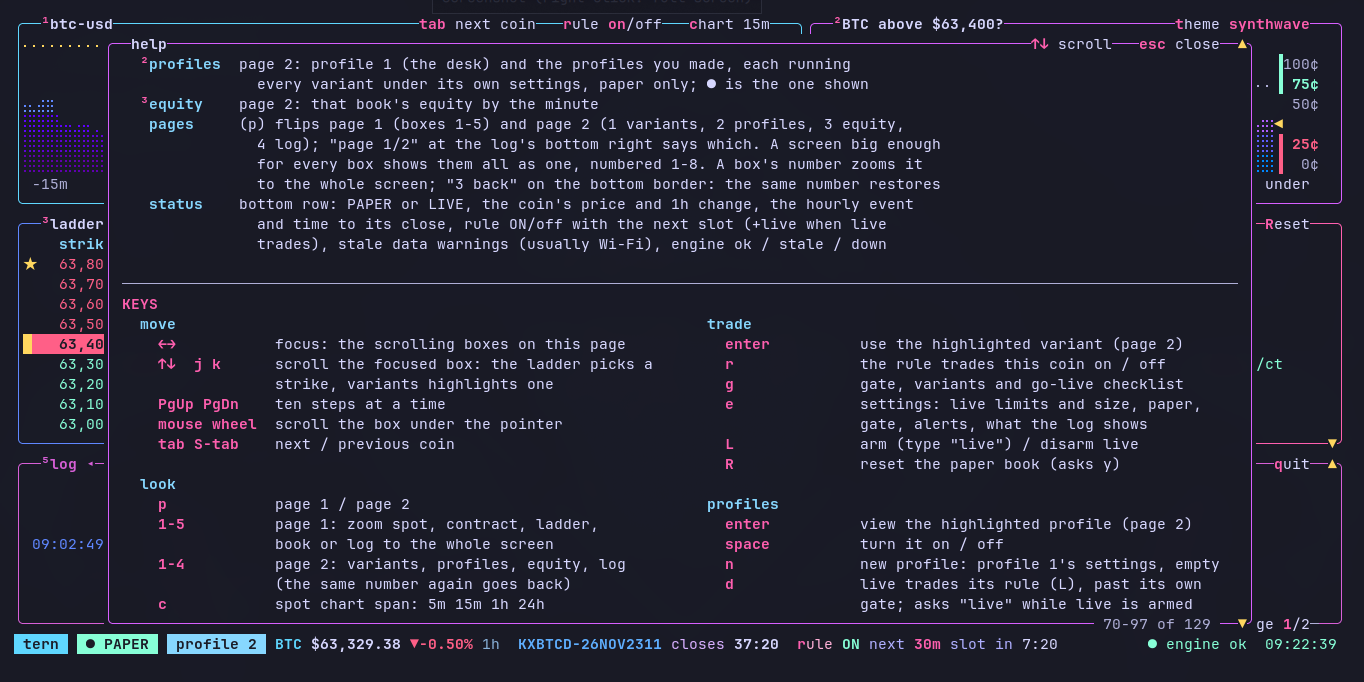
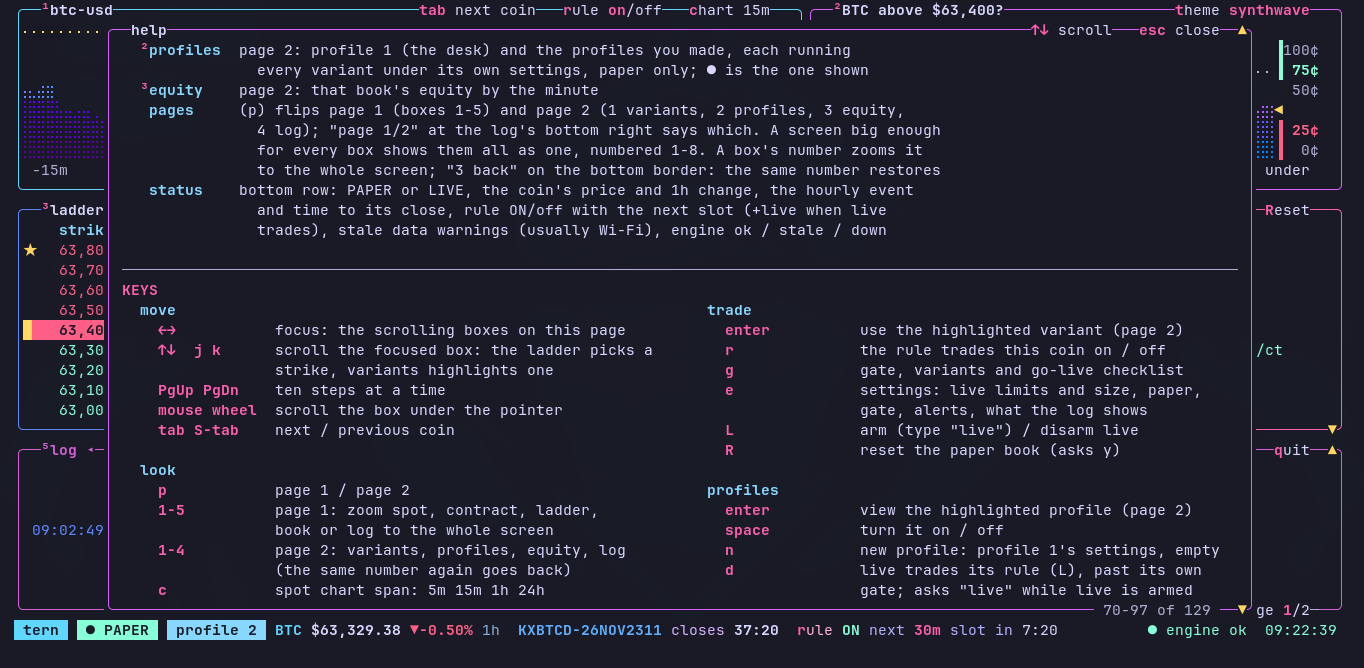
README, help and research: plain wording, current keys, files and gate; screenshots cropped
Drops the commentary on whether the rule has an edge. Brings the README up to
date: report --profiles, chart spans, stop key, theme/settings/profile keys,
the files and modules it left out, the Kalshi key check. Screenshots lose the
tooltip along their top.

diff --git a/tern/dash.py b/tern/dash.py
@@ -291,20 +291,18 @@ HELP = [
                  "hourly close, the rule buys the favorite side of every strike whose mid is {band} (spread "
                  "{spread}c or less) at the ask, {contracts:g} contracts a strike and at most ${hour_cost:,.0f} an hour, "
                  "and holds it to settlement. Over 67 days of BTC history it made +0.6c a contract on data it "
-                 "was not chosen on (t=1.1): positive, small, unproven."),
+                 "was not chosen on."),
     ("VARIANTS", "Each variant runs on paper side by side with its own record and real fees, written down "
                  "before it saw any data:\n"
                  "{variants}\n"
                  "The one marked ● in the variants box (page 2: p) is what the paper book trades, and live too once it "
                  "passes the gate. Highlight another with ↑↓ and press enter to switch; while live is on or armed "
-                 "you type \"live\" to confirm. Open positions ride to settlement. Picking whichever looks best "
-                 "after watching flatters it: the gate is the real check.\n"
+                 "you type \"live\" to confirm. Open positions ride to settlement.\n"
                  "Retired, records kept and listed by (tern report):\n"
                  "{retired}"),
     ("THE GATE", "(g) Live trades the variant in use only after its own paper record has {days:g} days of hours "
                  "traded, {entries} settled entries and P&L of ${pnl:g} or more after fees. Hours with the engine "
-                 "off don't count, and switching variants never skips it: the new one needs its own record. "
-                 "The gate catches a broken rule, not a weak one."),
+                 "off don't count, and switching variants never skips it: the new one needs its own record."),
     ("LIVE", "(L) arms live: it asks you to type \"live\". It needs KALSHI_KEY_ID and KALSHI_KEY_FILE in "
              "~/.config/tern/kalshi.env. The status line turns red (● LIVE) once Kalshi accepts the key. "
              "Caps: ${risk:,.0f} at risk at once and ${order:,.0f} per order; a loss of ${day:,.0f} since local midnight "
@@ -348,7 +346,7 @@ OVERLAY_TOKENS = re.compile(
     r"(?P<ok>\[x\])|(?P<todo>\[ \])"
     r"|(?P<ref>\((?:[a-zA-Z?1-8]|tern \w[\w-]*|enter|tab|esc)\))"
     r"|(?P<quote>\"[^\"]+\"|\blive and press enter\b)"
-    r"|(?P<warn>\b(?:real money|unproven|turns live off|turns itself off|Nothing trades|No key found yet|Wipe)\b)"
+    r"|(?P<warn>\b(?:real money|turns live off|turns itself off|Nothing trades|No key found yet|Wipe)\b)"
     r"|(?P<keyhint>^(?:y|any key|any other key)\b|\besc\b|·\s(?:any (?:other )?key)\b)"
     r"|(?P<path>~/\S+|\bKALSHI_KEY_(?:ID|FILE)\b|\blive\.\w+)")
 SHADOW_LINE = re.compile(r"^(shadow: \S+ settled) · (.+)$")   # the engine's line after an hour settles

diff --git a/tern/__main__.py b/tern/__main__.py
@@ -263,8 +263,8 @@ def _report_profiles(runtime: str, args: list[str]) -> int:
                  Shadow(runtime, cfg.taker_fee))]
         rows += [(p.name + ("" if p.enabled else " (off)"), p.variant, p.log.sv, p.shadow) for p in loaded]
         _side_by_side(rows)
-        print("\neach profile's book is its picked variant's record; picking the best-looking of many flatters it:")
-        print("look at entries and t (by hour, shows after 10 hours; under about 2 it is still noise).")
+        print("\neach profile's book is its picked variant's record:")
+        print("look at entries and t (by hour, shows after 10 hours) as well as P&L.")
         return 0
     if args[0] == "--profile" and len(args) > 1:
         want = " ".join(args[1:]).strip().lower()

diff --git a/tern/shadow.py b/tern/shadow.py
@@ -46,7 +46,7 @@ TABLE = [
      "every coin at once, each its own budget; judge by ¢/ct (from 2026-11-16)"),
     # added 2026-11-19 after the worst day (-$93, five hours lost to sharp late moves). 7.6 bp/min is the
     # 75th percentile of base's entry slots 11-09..11-18, set from that data alone, not from P&L and not from
-    # 11-19. Before 11-19 calm slots made more (+3.1 vs +1.2 ¢/ct), but on 11-19 they lost more: unproven.
+    # 11-19. Before 11-19 calm slots made more (+3.1 vs +1.2 ¢/ct), but on 11-19 they lost more.
     ("calm", (None, None, None, None, None, None, 7.6),
      "skips slots after a wild hour: rv60 over 7.6 bp/min (from 2026-11-20)"),
 ]

diff --git a/tern/config.py b/tern/config.py
@@ -23,7 +23,7 @@ SERIES = {  # Kalshi hourly above/below series -> Coinbase spot product; tab cyc
 @dataclass
 class Strategy:
     """The hourly favorite rule. Defaults are the variant picked on the first half of 67 days of
-    BTC history and checked on the untouched second half (+0.61c/contract, t=1.1: positive, unproven)."""
+    BTC history and checked on the untouched second half (+0.61c/contract, t=1.1)."""
     series: list = field(default_factory=lambda: ["KXBTCD"])   # ETH was not tested on 67 days
     band_lo: float = 0.75                      # favorite's mid must be in [band_lo, band_hi)
     band_hi: float = 0.95

diff --git a/README.md b/README.md
@@ -5,7 +5,7 @@ screen: braille charts, a strike ladder, and paper and live books.
 Every trade comes from the rule; there are no manual orders.
 It paper trades from the start and sends no real order until you arm live.
 
-<img width="1364" height="682" alt="tern: page1 trade" src="docs/screenshots/01-page1-trade.png" />
+<img width="1364" height="668" alt="tern: page1 trade" src="docs/screenshots/01-page1-trade.png" />
 
 Python 3.11+, standard library only. Kalshi request signing (Ed25519 and RSA-PSS)
 is written in pure Python and checked against openssl in the tests.
@@ -15,6 +15,8 @@ python3 -m tern               # the screen; starts the engine in paper if it isn
 python3 -m tern run           # the engine in the foreground
 python3 -m tern status        # plain-text summary
 python3 -m tern report        # the rule's variants side by side
+python3 -m tern report --profiles       # every profile's book side by side (--deleted: the deleted ones)
+python3 -m tern report --profile NAME   # one profile's variants, by settings period
 python3 -m tern live-check    # test your Kalshi key (balance, positions; no orders)
 python3 -m tern web           # the screen in a browser, view only: http://localhost:8787/
 python3 -m tern web-service   # a systemd user service for it (tern-web.service)
@@ -22,27 +24,20 @@ python3 -m tern service       # a systemd user service so the engine keeps runni
 python3 -m unittest tests.test_tern
 ```
 
-<img width="1364" height="682" alt="tern: page2 compare" src="docs/screenshots/02-page2-compare.png" />
+<img width="1364" height="668" alt="tern: page2 compare" src="docs/screenshots/02-page2-compare.png" />
 
-## Is there an edge?
+## Where the rule comes from
 
-Barely. The full write-up is [research/RESEARCH.md](research/RESEARCH.md). In short:
+tern is a trading bot. It might work or it might not, depending on how you configure and use it.
 
-- **Kalshi tracks spot faster than a home bot can.** A fair-value model from
-  live spot adds nothing to Kalshi's own price on held-out data, even fed
-  zero-delay prices. The 15-minute markets and the final-minute settlement math
-  showed no edge that held up out of sample.
-- **Hourly long shots are overpriced.** On 67 days of BTC history, contracts
-  priced 5–20¢ won about 2 points less often than their price said, and 80–90¢
-  favorites about 2 points more often.
-- **Buying the favorite at the ask captures a little of it.** The rule tern
-  runs was picked on the first 33 days (+1.8¢ a contract) and made **+0.6¢ a
-  contract on the next 34 days it had never seen (t = 1.1)**. That is positive
-  but not proven. Expect about 10 entries an hour, a few dollars a day at the
-  default size, and single losses of about $4 when a favorite fails.
-- **Resting bids lose.** You get filled when price moves against you.
+The default rule comes from a study of Kalshi's hourly crypto markets, written up in
+[research/RESEARCH.md](research/RESEARCH.md). On 67 days of BTC history, 80–90¢ favorites won about
+2 points more often than their price said, and 5–20¢ long shots about 2 points less often. The rule
+buys the favorite. It was picked on the first 33 days and made **+0.6¢ a contract after fees on the
+next 34 days**, which it had not seen. Expect about 10 entries an hour; at the default size a favorite
+that fails costs about $4.
 
-<img width="1364" height="682" alt="tern: variants multi" src="docs/screenshots/03-variants-multi.png" />
+<img width="1364" height="668" alt="tern: variants multi" src="docs/screenshots/03-variants-multi.png" />
 
 ## The rule
 
@@ -55,7 +50,7 @@ every 5 seconds. It trades BTC only by default. `r` on another coin's view adds
 that coin, but ETH was only tested on 14 days and SOL, XRP, BNB and HYPE not at
 all; those four are there to watch.
 
-<img width="1364" height="682" alt="tern: book multi" src="docs/screenshots/04-book-multi.png" />
+<img width="1364" height="668" alt="tern: book multi" src="docs/screenshots/04-book-multi.png" />
 
 ## Paper and live
 
@@ -70,9 +65,9 @@ once it has. Press `L` again to return to paper. Once live:
 - **The variant in use goes live only after its own shadow record passes the
   gate** (`g`): 14 days, 300 settled entries, and P&L ≥ $0 after fees. Days are
   counted as hours it actually traded ÷ 24, so time with the engine off does
-  not count. Switching variants never skips this: the new one needs its own record. A 0.6¢ edge is too
-  small for 14 days to prove. The gate catches a broken rule, not a weak one.
-  Set `live.auto_needs_gate` to `false` to skip it.
+  not count. Switching variants never skips this: the new one needs its own record.
+  14, 300 and $0 are the defaults; the settings box (`e`) changes them.
+  Set `live.auto_needs_gate` to `false` to skip the gate.
 - **Caps:** `live.capital_usd` ($100) is the most at risk at once.
   `live.max_order_usd` ($25) is the largest single order. Orders that only
   reduce a position are exempt from both.
@@ -84,9 +79,9 @@ once it has. Press `L` again to return to paper. Once live:
   seconds. Each order carries a unique `client_order_id`. If the reply is lost,
   the engine looks the order up by that id instead of sending it again.
 
-<img width="1364" height="682" alt="tern: settings" src="docs/screenshots/05-settings.png" />
+<img width="1364" height="668" alt="tern: settings" src="docs/screenshots/05-settings.png" />
 
-## Looking for a better edge
+## Variants
 
 The engine also runs these on paper, side by side, each with its own record
 and real fees. They were written down before seeing any data, so what they
@@ -94,17 +89,18 @@ show after a few weeks is out of sample. `python3 -m tern report`, `g`, or the
 variants box (`p`, page 2) compares them. The paper and live books trade
 whichever one `strategy.variant` names (`base` by default). Pick it in the
 variants box with `↑↓` and `enter`. While live is on or armed, switching asks
-you to type `live`. Choosing whichever looks best after watching them flatters
-it; the gate is the check.
+you to type `live`.
 
-<img width="1364" height="682" alt="tern: log shadow" src="docs/screenshots/06-log-shadow.png" />
+<img width="1364" height="668" alt="tern: log shadow" src="docs/screenshots/06-log-shadow.png" />
 
 To look at a variant without trading it, highlight it and press `w`. The book,
 equity, ladder and band then show that variant's shadow record as if it traded
 (on a $1,000 paper start), and the status line says `watching X · trading Y`.
 Nothing about what trades changes. `w` again or `v` goes back to the real book.
 
-<img width="1364" height="682" alt="tern: gate" src="docs/screenshots/07-gate.png" />
+<img width="1364" height="668" alt="tern: gate" src="docs/screenshots/07-gate.png" />
+
+The gate (`g`), here with stricter settings than the defaults: 1000 entries and $100.
 
 | Variant | What it does |
 |---|---|
@@ -117,7 +113,7 @@ Nothing about what trades changes. `w` again or `v` goes back to the real book.
 | `band75` | only favorites at 75–80¢; with `band80` and `band90` it splits the band in three (from 2026-11-16) |
 | `early` | only the 25m and 20m slots, the other half of `late` (from 2026-11-16) |
 | `multi` | the rule on every coin at once, each coin's hour with its own budget. Its dollars are up to six times `base`'s, so compare it by ¢/contract and t (from 2026-11-16) |
-| `calm` | skips a slot when the coin's realized volatility over the last hour (one-minute returns) is above 7.6 bp/min, the 75th percentile of `base`'s entry slots 11-09..11-18. Added after the −$93 day of 11-19; on that day's data it would not have helped, so it is a test, not a fix (from 2026-11-20) |
+| `calm` | skips a slot when the coin's realized volatility over the last hour (one-minute returns) is above 7.6 bp/min, the 75th percentile of `base`'s entry slots 11-09..11-18 (from 2026-11-20) |
 
 Retired 2026-11-16, records kept in `runtime/shadow-settled.jsonl` and listed by `report`:
 `stop20` (sell 20¢ under entry: −$191 over 165 hours, t −3.0) and `arb`
@@ -167,13 +163,15 @@ from timing.
   side by side; `--profile <name>` shows one profile's variants period by
   period with what changed; `--deleted` lists the deleted ones.
 
-Choosing the best-looking of many profiles flatters it, the same as choosing
-among variants. Look at entries and t, not only P&L.
+When comparing, look at entries and t as well as P&L. t is the average hour's P&L divided by its
+standard error; it shows after 10 hours.
 
 The web screen can view any profile; making, changing and deleting them stays
 with the terminal.
 
-## Keys
+<img width="1364" height="668" alt="tern: help" src="docs/screenshots/08-help.png" />
+
+## Kalshi key
 
 At kalshi.com, under Account → API keys, create a key and download the private
 key file. Ed25519 is Kalshi's default; RSA works too. Then:
@@ -188,8 +186,6 @@ chmod 600 ~/.config/tern/kalshi.env ~/.config/tern/kalshi.pem
 python3 -m tern live-check
 ```
 
-<img width="1364" height="682" alt="tern: help" src="docs/screenshots/08-help.png" />
-
 ## The screen
 
 The boxes sit on two pages, and `p` flips between them. Page 1 · trade has spot, contract, ladder, book
@@ -203,7 +199,7 @@ restores the page, and `p` restores it and flips.
 | Box | What it shows |
 |---|---|
 | status line | paper/live, spot and 1-hour change, the event and its countdown, the rule's next slot, engine health |
-| ¹ spot | Coinbase spot (a BRTI constituent), 15 minutes at 1 s or 24 hours at 1 min (`c`), with the selected strike as a dotted line |
+| ¹ spot | Coinbase spot (a BRTI constituent), over 5 minutes, 15 minutes, 1 hour or 24 hours (`c`), with the selected strike as a dotted line |
 | ² contract | the selected strike's YES price this hour, seeded from Kalshi's minute candles, with the rule's band edges marked |
 | ³ ladder | every strike, high to low: bid, ask, probability bar, spread, volume, your position. ★ marks strikes in the rule's band |
 | ⁴ book | equity, P&L, cash, at risk, fees, the rule's paper record, and open positions. `v` switches between paper and live |
@@ -212,11 +208,15 @@ restores the page, and `p` restores it and flips.
 | ² profiles (page 2) | profile 1 and the profiles you made (see Profiles) |
 | ³ equity (page 2) | that book's equity by the minute |
 
-Keys: `p` page 1 / page 2 · `↑↓` / `PgUp PgDn` move in the focused box · `←→` focus · `1`–`5` (page 1), `1`–`4` (page 2) or `1`–`8` (one big screen) zoom a box to the whole screen, the same number goes back · `enter` use the highlighted variant or view the highlighted profile (whichever box has focus) · `w` watch a variant (view only) · `tab` next coin · `r` rule trades this coin ·
-`c` chart range · `v` book · `L` arm/disarm live · `g` gate · `R` reset paper ·
-`s` start the engine · `?` help · `q` close (the engine keeps running).
+Keys: `p` page 1 / page 2 · `↑↓` / `PgUp PgDn` move in the focused box · `←→` focus · `1`–`5` (page 1), `1`–`4` (page 2) or `1`–`8` (one big screen) zoom a box to the whole screen, the same number goes back · `enter` use the highlighted variant or view the highlighted profile (whichever box has focus) · `w` watch a variant (view only) · `tab` / shift+tab next / previous coin · `r` rule trades this coin ·
+`c` chart span · `t` / `T` next / previous of 54 color themes · `v` book · `L` arm/disarm live · `g` gate · `e` settings · `R` reset paper ·
+`s` stop (asks `y`) / start the engine · `h` or `?` help · `q` close (the engine keeps running).
+`j` / `k` move like `↓` / `↑`, and the mouse wheel scrolls the box under the pointer.
 
-<img width="1364" height="682" alt="tern: theme sunset" src="docs/screenshots/09-theme-sunset.png" />
+In the profiles box: `enter` view · `space` on/off · `n` new · `d` live trades its rule · `D` delete ·
+`N` rename (in the variants box, `N` renames a variant). See Profiles.
+
+<img width="1364" height="668" alt="tern: theme sunset" src="docs/screenshots/09-theme-sunset.png" />
 
 ## The web screen
 
@@ -227,8 +227,9 @@ chart span, `tab`/shift+tab coins, `t`/`T` themes, `v` paper/live, `w` watch a v
 help, `↑↓ ←→` and the wheel. Clicking a key on a box border, a box's number, or a ladder or variant row
 does what the key would; on a phone, drag to scroll.
 
-It is view only. `q`, `s`, `R`, `L`, `r` and `enter` (pick a variant) do nothing there, and their
-hints are not drawn. It writes no command files and never touches the screen's `dash.json` or
+It is view only. `q`, `s`, `R`, `L`, `r`, `N` and `enter` on a variant do nothing there, nor do `space`,
+`n`, `d` and `D` in the profiles box, and their hints are not drawn. `enter` on a profile views it, and the
+settings box (`e`) shows the settings but changes only what that browser's log box shows. It writes no command files and never touches the screen's `dash.json` or
 `view.json`: each browser keeps its own settings. It writes `view-web.json` (in the same tmpfs folder)
 with the coins and strikes its viewers have up, so the engine sends those strikes' contract history
 too; the engine ignores the file 30 seconds after the last viewer leaves.
@@ -257,7 +258,7 @@ when it is off. The engine restarts or stops the service as soon as one changes,
 hand in `config.json`, and the box shows whether it is running and where to open it. The firewall is
 not touched: a new port still needs `sudo ufw allow PORT/tcp` (and the router forward moved).
 
-<img width="1364" height="682" alt="tern: theme mint chip" src="docs/screenshots/10-theme-mint-chip.png" />
+<img width="1364" height="668" alt="tern: theme mint chip" src="docs/screenshots/10-theme-mint-chip.png" />
 
 ## Files
 
@@ -266,35 +267,42 @@ stand, open entries, slots taken: a few KB, written only when it changes, with
 an hourly `state.json.bak` that is loaded if the main file is damaged), the
 history files that are only ever appended to (`paper-trades.jsonl`,
 `paper-curve.jsonl`, `live-trades.jsonl`, `live-curve.jsonl`,
-`rule-entries.jsonl`), `tern.log` and `cmd/` (settings commands from the screen). The live
+`rule-entries.jsonl`), the variants' records (`shadow.json`, open entries, and
+`shadow-settled.jsonl`, append-only), `settings-log.jsonl`, `names.json` (display
+names, once something is renamed), `dash.json` (the screen's preferences), `ticks/`,
+`tern.log` and `cmd/` (settings commands from the screen). Each extra profile has a folder under
+`profiles/` with its own `profile.json`, `config.json`, variants' records and
+`settings-log.jsonl`; a deleted one moves to `profiles-deleted/`. The live
 status file and the screen's selection live in tmpfs (`$XDG_RUNTIME_DIR/tern-*`),
 because they are rewritten every second.
 
 | Module | What it does |
 |---|---|
+| `config.py` | the settings, their defaults and the settings box's bounds |
 | `strategy.py` | the favorite rule: which strikes qualify, when a slot is due |
 | `book.py` | the ledger for paper and live, with Kalshi's YES-leg netting and fee |
 | `engine.py` | polling, the rule, orders, settlement, live reconcile, kill switch, status |
+| `net.py` | HTTPS over connections that stay open |
 | `kalshi.py` | public and signed REST, V2 orders (`/portfolio/events/orders`) |
 | `sign.py` | Ed25519 and RSA-PSS signing, PEM/DER parsing |
 | `spot.py` | Coinbase ticker and candles |
 | `shadow.py` | the variants, each with its own paper record (also each one's gate) |
+| `profiles.py` | profiles: their folders, settings, records and names |
 | `record.py` | writes quotes and results to `runtime/ticks/` |
 | `dash.py` | the curses screen |
+| `themes.py` | the screen's 54 color themes |
 | `web.py`, `web.html` | the same screen in a browser, view only |
 | `webctl.py` | starts, stops and asks about tern-web.service for the settings box's WEB rows |
 | `webauth.py` | tern web's password, sign-in cookie, wrong-guess limits and certificate |
 | `research/` | the scripts and data behind the numbers above |
 
-<img width="1364" height="682" alt="tern: theme grape" src="docs/screenshots/11-theme-grape.png" />
+<img width="1364" height="668" alt="tern: theme grape" src="docs/screenshots/11-theme-grape.png" />
 
 ## Limits
 
-- The edge is small and unproven. Run paper for the full gate period before
-  trusting it with money.
-- Live order handling follows Kalshi's V2 docs, but no real order has been sent.
-  It has only been checked with a made-up key, which Kalshi's auth rejected as
-  expected. Start live with small caps and watch the first fills against
+- Run paper for the full gate period before going live.
+- Live order handling follows Kalshi's V2 docs. Signing in has worked with a real
+  key, but no real order has been sent yet. Start live with small caps and watch the first fills against
   kalshi.com.
 - If the engine isn't running, nothing is watched. Positions still settle on
   Kalshi, because nothing rests on the book.

diff --git a/research/RESEARCH.md b/research/RESEARCH.md
@@ -1,10 +1,10 @@
-# Research: is there an edge in Kalshi's short crypto markets?
+# Research: Kalshi's short crypto markets
 
 Done 2026-11-08 on Kalshi's public API, with Binance 1-second prices as the spot
 proxy. Every profit figure below is after Kalshi's taker fee (0.07 × P × (1−P)
 per contract) and pays the spread. Result in one line: **the market prices spot
-moves faster than a home bot can, and the one bias that survives (long shots
-overpriced on the hourly markets) is worth about half a cent a contract.**
+moves very quickly, and long shots on the hourly markets are overpriced: buying the
+favorite made about half a cent a contract.**
 
 ## Data
 
@@ -41,7 +41,7 @@ overpriced on the hourly markets) is worth about half a cent a contract.**
    | 90–95¢ | +1.3 ± 0.5 pt |
 
    The same shape shows in ETH over 14 days.
-6. **Turning it into trades is marginal.** The rule fixed before the 67-day run
+6. **Turning it into trades.** The rule fixed before the 67-day run
    (buy the favorite at the ask when its mid is 80–98¢, 50/30/15 minutes out):
    **+0.51¢/contract, t = 1.85**, positive in each third, 6 of 10 weeks up.
    (`fav90.py`)
@@ -57,10 +57,9 @@ overpriced on the hourly markets) is worth about half a cent a contract.**
 
 ## What that means
 
-The bias looks real and the trade is small. The refined rule took about 10
+The refined rule took about 10
 entries an hour in the backtest; at 5 contracts each and +0.6¢ a contract that is
-roughly 30¢ an hour, or about $7 a day, while one failed favorite loses about $4. It is not proven: t = 1.1
-on the holdout leaves a real chance it is zero. That is why tern runs it on paper
+roughly 30¢ an hour, or about $7 a day, while one failed favorite loses about $4. tern runs it on paper
 and lets it trade live only after a paper record passes the gate.
 
 ETH was not run on 67 days. That download needed more memory than the machine had

diff --git a/docs/superpowers/plans/2026-11-21-profiles.md b/docs/superpowers/plans/2026-11-21-profiles.md
@@ -211,7 +211,7 @@ Also `test_old_rows_are_period_zero`: write a settled line without `sv` to `shad
 
 - [ ] **Step 1: Write the failing test:** run `main(["report", "--profile", "profile 2"])` with captured stdout on a temp runtime holding a profile with rows in `sv` 1 and 2 → output contains `settings 1`, `settings 2`, `band low 0.75 → 0.82`; `--profiles` output has a `profile 1` and a `profile 2` line; an unknown name prints the known ones and returns 2.
 - [ ] **Step 2: Run to see it fail.**
-- [ ] **Step 3: Implement**, then add a "Profiles" section to `README.md` after "Looking for a better edge": what a profile is, the keys, settings periods, that only profile 1 goes live, where deleted ones go, the report flags, and the caution that picking the best-looking of many profiles flatters it (look at entries and t).
+- [ ] **Step 3: Implement**, then add a "Profiles" section to `README.md` after "Variants": what a profile is, the keys, settings periods, that only profile 1 goes live, where deleted ones go, the report flags, and the caution that picking the best-looking of many profiles flatters it (look at entries and t).
 - [ ] **Step 4: Run the whole suite** → OK.
 - [ ] **Step 5: Commit** — `git commit -m "report: profiles and settings periods; README: profiles"`
 
